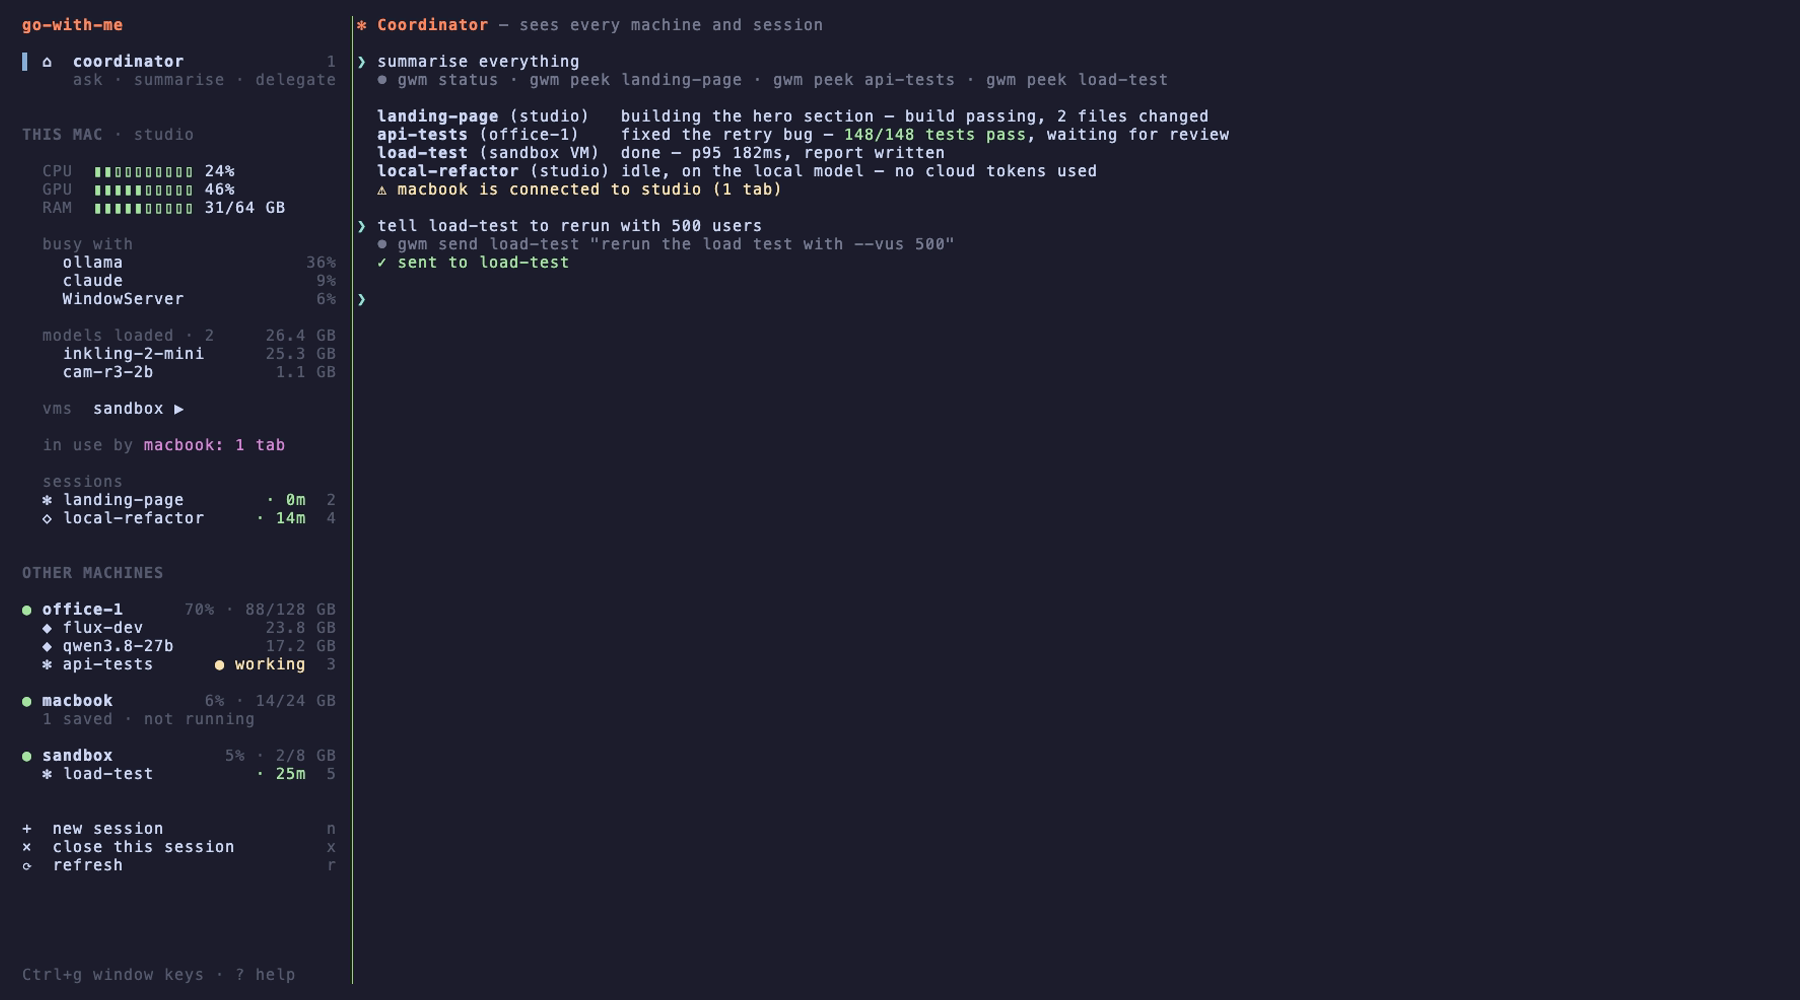
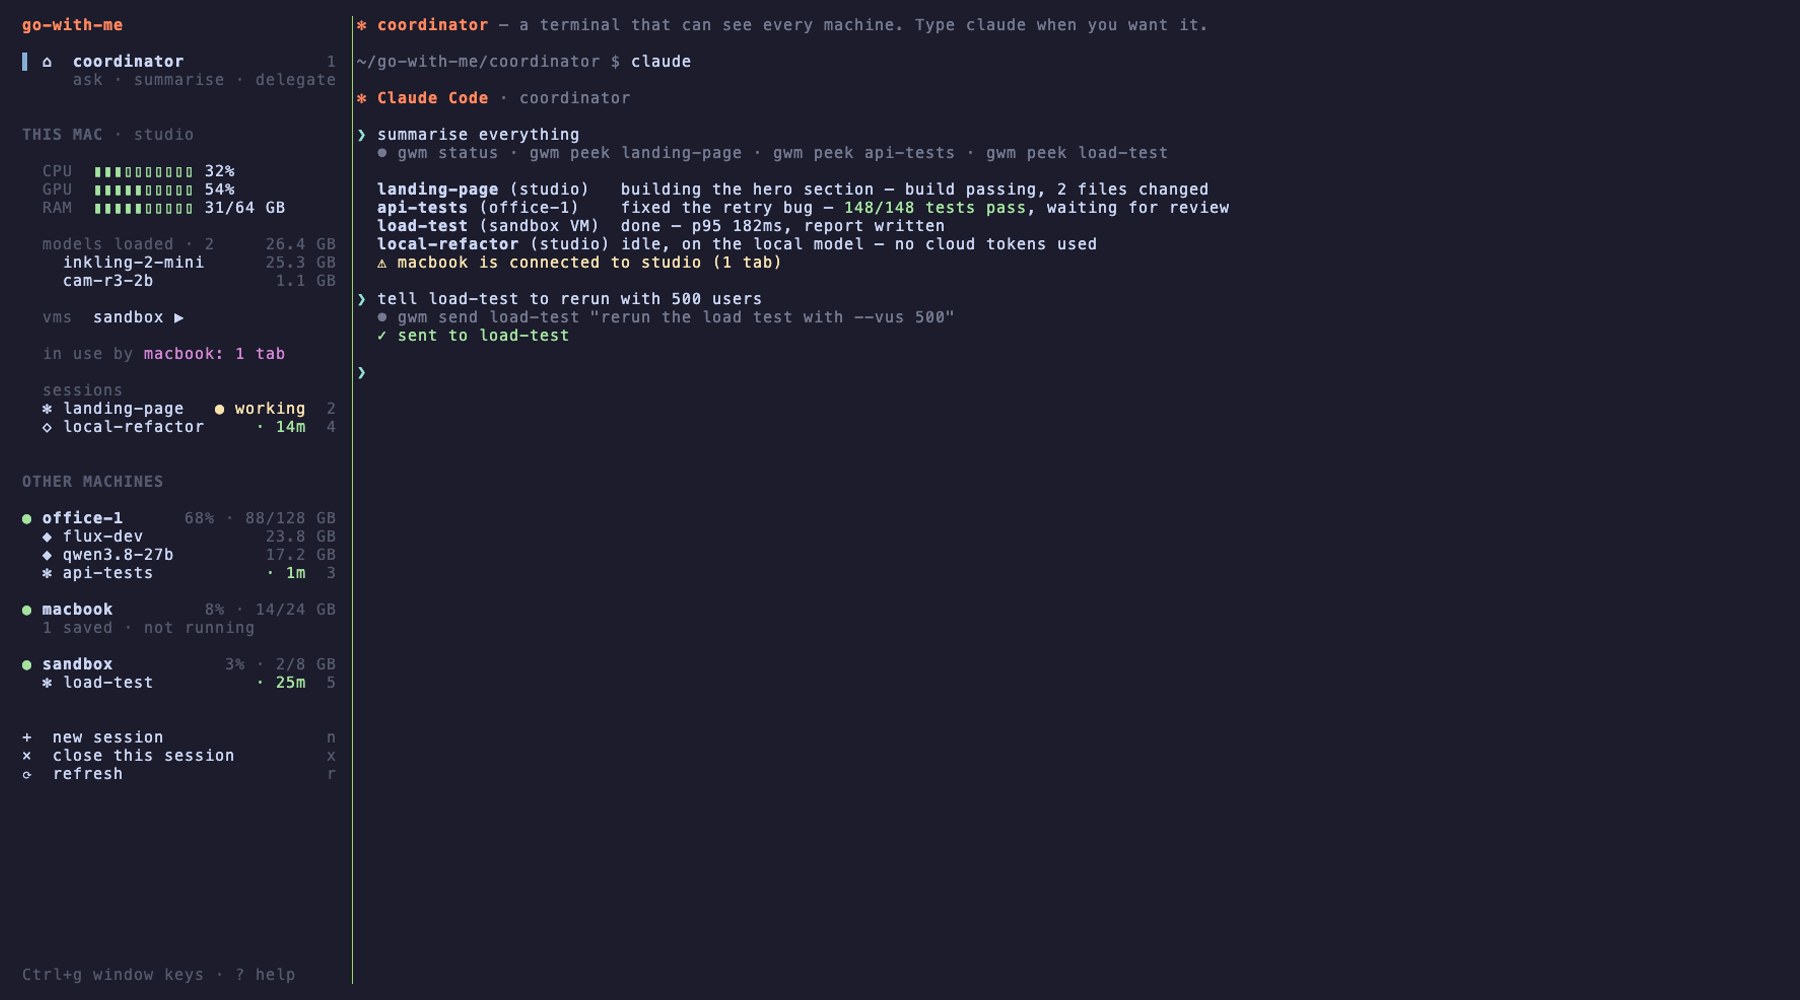
Open every tab as a plain terminal; nothing launches on its own
- Sessions no longer auto-run claude or opencode: each tab is a login shell
  with a one-line hint for what it's for, and the account's
  CLAUDE_CONFIG_DIR is set so typing `claude` uses the right login.
- The coordinator tab is a terminal in coordinator/; run `claude` there
  when you want it.
- Remove the "busy with" section and the top-process probe.
- Fix "Restored session: <date>" appearing in hub terminals, caused by
  Terminal.app's TERM_SESSION_ID leaking into them.
- Add hidden `gwm _startcmd <session>` for debugging.
- Demo, README and setup guide updated.

diff --git a/sidebar.py b/sidebar.py
@@ -4,7 +4,7 @@
 Layout, grouped by what belongs together:
   header
   coordinator                       (the overview tab)
-  MACHINES — one card per machine:  status · CPU/RAM · models · VMs · who's using it,
+  THIS MAC — CPU/GPU/RAM, every loaded model, VMs, who's using it, its sessions;  OTHER MACHINES — compact cards,
                                     then that machine's sessions
   actions                           new · close · refresh · help
   details of the highlighted session
@@ -53,11 +53,10 @@ def load_data():
             d = probe.setdefault(h, {"up": False, "sessions": {}})
             if kind == "H":
                 p += [""] * 7
-                d.update(up=True, cpu=p[2], ram=p[3], models=p[4], vms=p[5], gpu=p[6], mlist=d.get("mlist", []), top=d.get("top", []))
+                d.update(up=True, cpu=p[2], ram=p[3], models=p[4], vms=p[5], gpu=p[6], mlist=d.get("mlist", []))
             elif kind == "M" and len(p) >= 4:
                 d.setdefault("mlist", []).append((p[2].replace(":latest", ""), p[3], p[4] if len(p) > 4 else ""))
-            elif kind == "P" and len(p) >= 5:
-                d.setdefault("top", []).append((p[2], p[3], p[4]))
+
             elif kind == "S" and len(p) >= 6:
                 d["sessions"][p[2]] = {"idle": int(p[3] or 0), "att": int(p[4] or 0), "title": p[5]}
     with lock:
@@ -204,12 +203,6 @@ def build():
                 if val is None and label == "GPU":
                     continue
                 add([(3, label, "dim"), (8, bar(val), level(val)), (19, shown, "normal")])
-            top = hp.get("top") or []
-            if top:
-                add()
-                add([(3, "busy with", "dim")])
-                for name, cpu, mem in top[:3]:
-                    add([(5, name[:18], "normal"), (-1, f"{float(cpu):.0f}%", "dim")])
             mlist = hp.get("mlist") or []
             add()
             if mlist:

diff --git a/README.md b/README.md
@@ -21,7 +21,7 @@ git clone https://github.com/Vayras/go-with-me && cd go-with-me && ./go-with-me 
 <td width="50%"><img src="docs/session-tab.png" alt="A session"></td>
 </tr>
 <tr>
-<td><b>Just a sidebar and a terminal.</b> <b>This Mac</b> gets a full card: CPU / GPU / RAM bars, what it's busy with, <b>every loaded model</b> and its size, VMs, which other devices are using it, and its running sessions. <b>Other machines</b> get compact cards with their models and sessions. Only sessions that are <i>running</i> are listed; saved ones collapse to one line. Tab 1 is the <b>coordinator</b>, a Claude that starts when you press Enter.</td>
+<td><b>Just a sidebar and a terminal.</b> <b>This Mac</b> gets a full card: CPU / GPU / RAM bars, <b>every loaded model</b> and its size, VMs, which other devices are using it, and its running sessions. <b>Other machines</b> get compact cards with their models and sessions. Only sessions that are <i>running</i> are listed; saved ones collapse to one line. Tab 1 is the <b>coordinator</b>: a terminal where typing <code>claude</code> gives you an assistant that can see and steer every machine.</td>
 <td><b>Click a session to jump in</b> (a stopped one starts). Each session runs on its own machine and <b>keeps running</b> when you close your laptop. <b>Alt+1…9</b> also jumps; <b>n</b> new, <b>x</b> close. Select text with the mouse to copy it.</td>
 </tr>
 </table>
@@ -31,8 +31,8 @@ A **session** is *machine + engine + account + folder*:
 | | |
 |---|---|
 | **Machines** | Any Mac (or Linux box), connected over [Tailscale](https://tailscale.com) (works anywhere, no Remote Login) or plain SSH with Remote Login |
-| **Engines** | `claude` (Claude Code), `opencode` (local models via [Ollama](https://ollama.com), no cloud tokens), `shell` |
-| **Accounts** | Several Claude logins side by side, e.g. `personal` on one tab and `work` on another, each fully separate |
+| **Terminals, not auto-launched apps** | Every tab is a plain terminal; **nothing starts on its own**. A session's engine (`claude`, `opencode` with local [Ollama](https://ollama.com) models, or `shell`) just labels what it's for and shows a hint; you type `claude` / `opencode` when you want it |
+| **Accounts** | Several Claude logins side by side: in a `work` tab, typing `claude` uses your work login, and in a `personal` tab your personal one |
 | **VMs** | `gwm vm create sandbox --on studio` makes a Linux VM ([Lima](https://lima-vm.io)) on your strongest machine; it shows up as a machine with its own sessions |
 
 <img src="docs/status.png" alt="gwm status" width="100%">
@@ -100,7 +100,7 @@ Plain bash, no daemon or server:
 - Each session lives in a **hidden tmux** on its own machine (no status bar, no prefix key; it's only there so sessions survive disconnects). Tabs reconnect to it over **SSH**.
 - The sidebar's data comes from one shared SSH sweep of every machine (cached a few seconds): CPU/RAM, Ollama's loaded models, Lima VMs, tmux sessions, and incoming SSH/Tailscale connections (that's **in use**).
 - **Accounts** = a separate `CLAUDE_CONFIG_DIR` per label on each machine.
-- The **coordinator** is a normal Claude Code session with instructions to use `gwm status / peek / send / run`. It asks before sending to a session or changing anything.
+- The **coordinator** tab is a terminal in `coordinator/`; when you run `claude` there it reads `CLAUDE.md` and uses `gwm status / peek / send / run`. It asks before sending to a session or changing anything.
 
 ## Similar projects
 

diff --git a/docs/SETUP.md b/docs/SETUP.md
@@ -120,8 +120,9 @@ Switching a Mac from Remote Login to Tailscale later? Run `gwm add <same-name> -
 gwm
 ```
 
-- **The sidebar** (left): *This Mac* in detail (CPU/GPU/RAM, busy with, every loaded model, VMs, who's connected, its sessions) and a compact card per other machine. Only running sessions are listed; click to jump
-- **Tab 1, the coordinator**: a Claude that can see and steer everything. It waits for you to press **Enter**, so it never starts a session you didn't ask for
+- **The sidebar** (left): *This Mac* in detail (CPU/GPU/RAM, every loaded model, VMs, who's connected, its sessions) and a compact card per other machine. Only running sessions are listed; click to jump
+- **Tab 1, the coordinator**: a terminal. Type `claude` there for an assistant that can see and steer everything
+- **Every tab is a plain terminal**: nothing is launched for you. A Claude-type tab shows a hint and has its account set up, so `claude` uses the right login
 - **Tabs 2, 3, …**: one per running session, numbered by position (shown in the sidebar)
 
 | | |
@@ -131,7 +132,7 @@ gwm
 | Leave (everything keeps running) | **Ctrl+g → o → d**, or just close the window |
 | Start / open / close sessions | `gwm new` · `gwm open <name>` · `gwm close <name>` |
 
-The first time a Claude tab opens, Claude asks whether to trust the folder. Pick **Yes**.
+The first time you run `claude` in a folder, it asks whether to trust it. Pick **Yes**.
 
 ## 6. Optional extras
 
